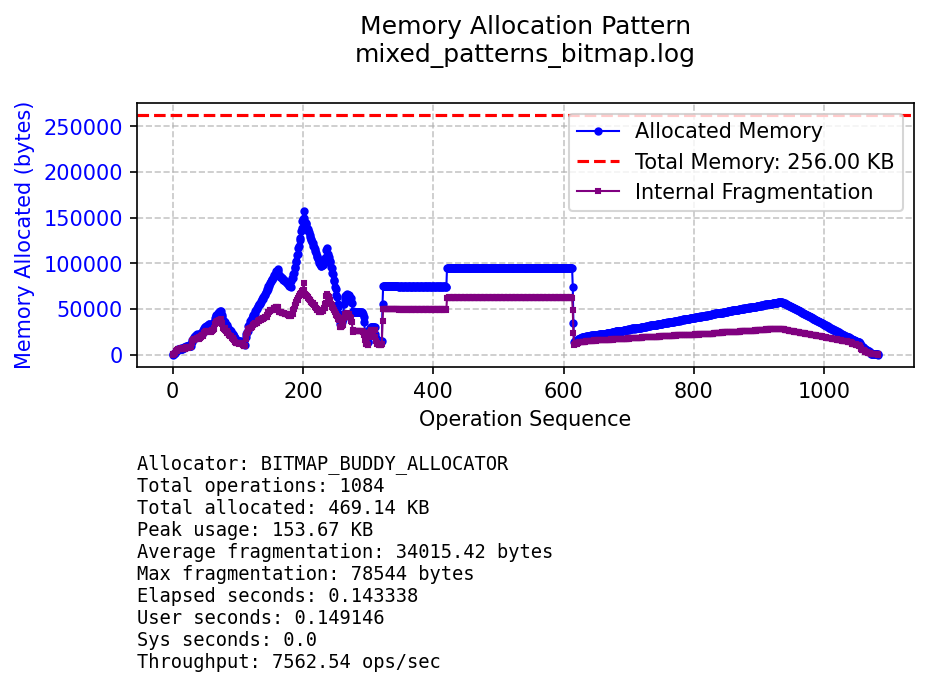
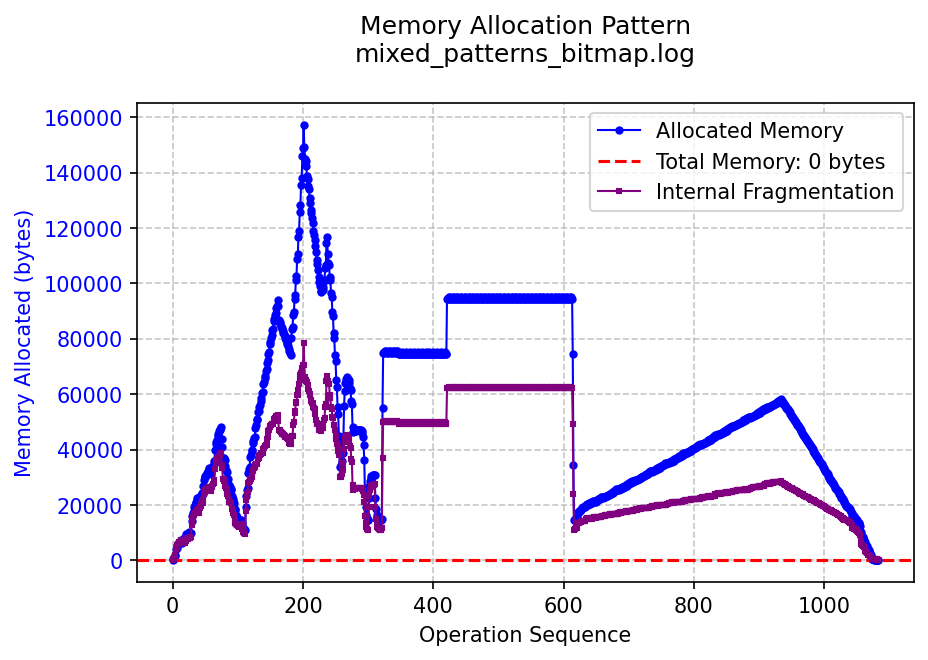
benchmark generator

diff --git a/graphs/graph_generator.py b/graphs/graph_generator.py
@@ -12,7 +12,7 @@ def parse_log_file(filepath):
         'params': {},
         'mem': {},
         'allocated': 0,
-        'total_size': 0
+        'memory_size': 0
     }
     total_alloc_requests = 0
     operation_count = 0
@@ -25,10 +25,10 @@ def parse_log_file(filepath):
             if not line or line.startswith('#'):
                 if line.startswith('# type='):
                     current_alloc['allocator'] = line.split('=')[1].strip()
-                elif line.startswith('# total_size='):
+                elif line.startswith('# memory_size='):
                     parts = line.split(',')
-                    current_alloc['total_size'] = int(parts[0].split('=')[1])
-                    current_alloc['params']['memory_size'] = current_alloc['total_size']
+                    current_alloc['memory_size'] = int(parts[0].split('=')[1])
+                    current_alloc['params']['memory_size'] = current_alloc['memory_size']
                     current_alloc['params']['max_levels'] = int(parts[1].split('=')[1])
                 continue
 
@@ -41,7 +41,7 @@ def parse_log_file(filepath):
                     continue
                 status = parts[3]
                 frag = int(parts[4])
-                if status == '1' and (current_alloc['total_size'] - current_alloc['allocated'] >= int(parts[2])):
+                if status == '1' and (current_alloc['memory_size'] - current_alloc['allocated'] >= int(parts[2])):
                     failure_indices.append(operation_count - 1)
                 if status != '0':
                     continue
@@ -78,7 +78,7 @@ def parse_log_file(filepath):
     # Return allocator name as first value
     return (
         current_alloc['allocator'],
-        allocations, frag_list, current_alloc['total_size'], total_alloc_requests,
+        allocations, frag_list, current_alloc['memory_size'], total_alloc_requests,
         failure_indices, elapsed_seconds, user_seconds, sys_seconds, operation_count
     )
 
@@ -90,13 +90,26 @@ def produce_graph():
         return
     for filename in os.listdir(benchmarks_dir):
         if filename.endswith('.log'):
+            log_path = os.path.join(benchmarks_dir, filename)
+            outname = filename.replace('.log', '.png')
+            outpath = join(graphs_dir, outname)
+            # Only ask to remake if .log is newer than .png or .png does not exist
+            remake = True
+            if os.path.exists(outpath):
+                log_mtime = os.path.getmtime(log_path)
+                png_mtime = os.path.getmtime(outpath)
+                if png_mtime >= log_mtime:
+                    remake = False
+            if not remake:
+                print(f"Skipping '{filename}' (PNG is up to date).")
+                continue
             try:
                 # Ask the user for each file
                 answer = input(f"Include statistics box below the graph for '{filename}'? [y/N]: ").strip().lower()
                 show_stats = (answer == 'y')
 
                 filepath = os.path.join(benchmarks_dir, filename)
-                allocator, allocations, frag_list, total_size, total_alloc_requests, failure_indices, elapsed_seconds, user_seconds, sys_seconds, operation_count = parse_log_file(filepath)
+                allocator, allocations, frag_list, memory_size, total_alloc_requests, failure_indices, elapsed_seconds, user_seconds, sys_seconds, operation_count = parse_log_file(filepath)
 
                 # Calculate statistics
                 highest_peak = max(allocations) if allocations else 0
@@ -149,8 +162,8 @@ def produce_graph():
                 # Plot allocated memory (primary axis)
                 ax1.plot(range(len(allocations)), allocations, marker='o', markersize=3, 
                         linestyle='-', linewidth=1, color='b', label='Allocated Memory')
-                ax1.axhline(y=total_size, color='r', linestyle='--', 
-                        label=f'Total Memory: {format_bytes(total_size)}')
+                ax1.axhline(y=memory_size, color='r', linestyle='--', 
+                        label=f'Total Memory: {format_bytes(memory_size)}')
                 ax1.set_title(f'Memory Allocation Pattern\n{filename}', pad=20)
                 ax1.set_xlabel('Operation Sequence')
                 ax1.set_ylabel('Memory Allocated (bytes)', color='b')

diff --git a/chapter_3_contributo_personale.tex b/chapter_3_contributo_personale.tex
@@ -82,13 +82,13 @@ Lo \textit{slab allocator} è un gestore pensato per richieste di memoria di tag
 \begin{lstlisting}
 struct SlabAllocator {
     Allocator base;
-    char* managed_memory;
-    unsigned int buffer_size;
+    char* memory_start;
+    unsigned int memory_size;
     size_t slab_size;   
     size_t user_size;
     DoubleLinkedList* free_list;   
     unsigned int free_list_size;
-    unsigned int free_list_size_max;
+    unsigned int num_slabs;
 };
 \end{lstlisting}
 
@@ -198,7 +198,7 @@ I nodi sono salvati in una serie di free lists, corrispondenti ai vari livelli d
 typedef struct BuddyAllocator {
     VariableBlockAllocator base; // Base allocator interface
     void* memory_start; // Start of managed memory
-    size_t total_size; // Total size of managed memory
+    size_t memory_size; // Total size of managed memory
     size_t min_block_size; // Minimum block size (power of 2)
     int num_levels; // Number of levels in the system
     SlabAllocator list_allocator;
@@ -213,7 +213,7 @@ Nell’eventualità che entrambi i \textit{buddies} siano contemporaneamente non
 
 \begin{lstlisting}
 // inline has been omitted for brevity
-BuddyAllocator* BuddyAllocator_create(BuddyAllocator* a, size_t total_size, int num_levels);
+BuddyAllocator* BuddyAllocator_create(BuddyAllocator* a, size_t memory_size, int num_levels);
 int BuddyAllocator_destroy(BuddyAllocator* a);
 void* BuddyAllocator_malloc(BuddyAllocator* a, size_t size);
 int BuddyAllocator_free(BuddyAllocator* a, void* ptr);
@@ -260,7 +260,7 @@ typedef struct {
     char* memory_start; // Managed memory area
     int memory_size; // Size of managed memory
     int num_levels; // Number of levels in the hierarchy
-    int min_bucket_size; // Minimum allocation size
+    int min_block_size; // Minimum allocation size
     Bitmap bitmap; // Bitmap tracking block status
 } BitmapBuddyAllocator;
 \end{lstlisting}
@@ -269,7 +269,7 @@ Poiché il \textit{BitmapBuddyAllocator} è una variante del classico \textit{bu
 
 \begin{lstlisting}
 // inline has been omitted for brevity
-BitmapBuddyAllocator* BitmapBuddyAllocator_create(BitmapBuddyAllocator* a, size_t total_size, int num_levels);
+BitmapBuddyAllocator* BitmapBuddyAllocator_create(BitmapBuddyAllocator* a, size_t memory_size, int num_levels);
 int BitmapBuddyAllocator_destroy(BitmapBuddyAllocator* a);
 void* BitmapBuddyAllocator_malloc(BitmapBuddyAllocator* a, size_t size);
 int BitmapBuddyAllocator_free(BitmapBuddyAllocator* a, void* ptr);
